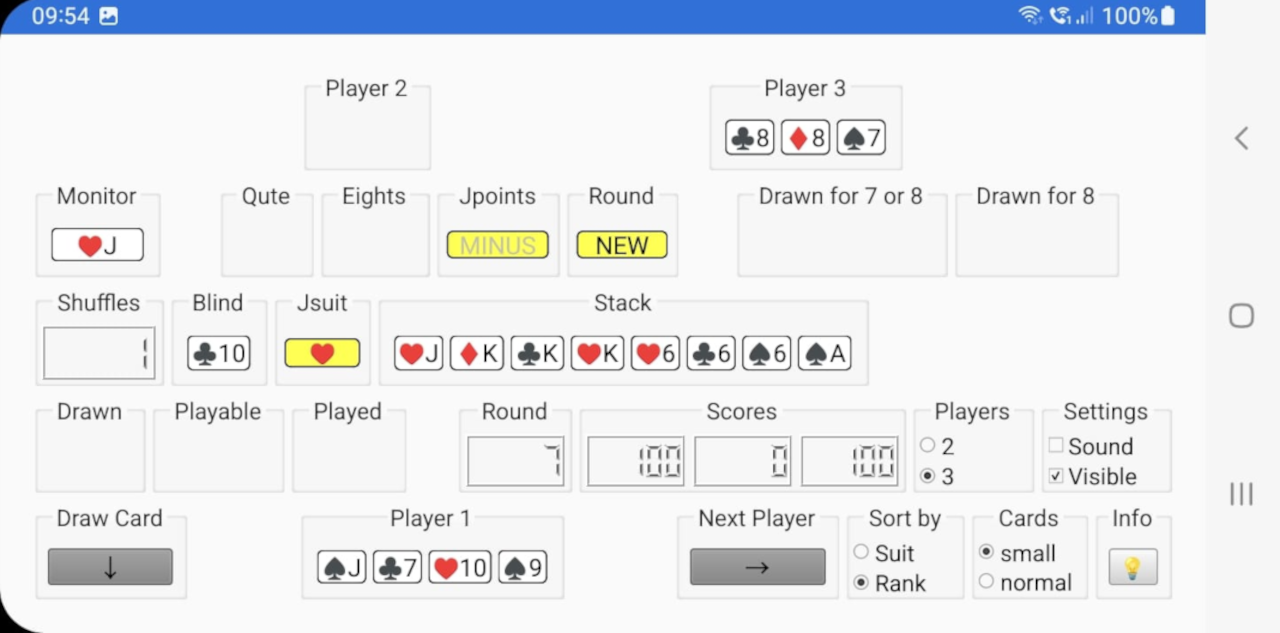
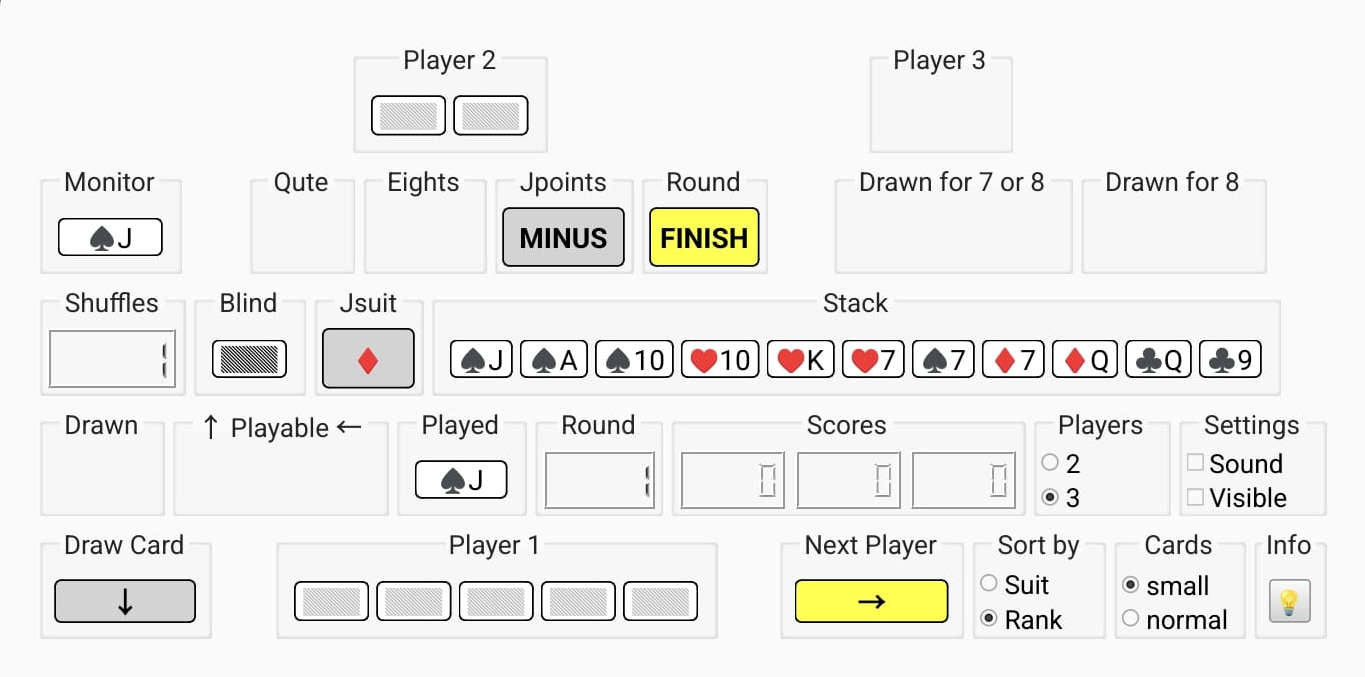
JsuitChooser has pixmap when Card::Normal
JpointsChooser Bugfix
README.md updated to keyboard control

diff --git a/game.cpp b/game.cpp
@@ -126,10 +126,10 @@ QSharedPointer<Player> Game::player3() const
     return player3_;
 }
 
-QSharedPointer<Monitor> Game::monitor()
-{
-    return monitor_;
-}
+// QSharedPointer<Monitor> Game::monitor()
+// {
+//     return monitor_;
+// }
 
 QSharedPointer<EightsChooser> Game::eightsChooser()
 {
@@ -323,8 +323,7 @@ void Game::handleChoosers()
     // -----------------------------------------------------------------------
 
     // EightsChooser
-    if (stackCard->rank() == "8" && monitor()->cards().size() >= 2
-        && played()->cards().size() >= 2) {
+    if (stackCard->rank() == "8" && monitor_->cards().size() >= 2 && played()->cards().size() >= 2) {
         // 2 Players
         if (numberOfPlayers_ == 2) {
             // if 2 players -> NOT allowing toggling to "ALL"
@@ -387,7 +386,7 @@ void Game::handleChoosers()
     // QuteChooser
 
     // Qute Condition -> connect Q -> J
-    if (monitor()->cards().size() == 4 && played()->cards().size() > 0) {
+    if (monitor_->cards().size() == 4 && played()->cards().size() > 0) {
         connect(quteChooser().get(),
                 &QuteChooser::quteDecisionChanged,
                 jpointsChooser().get(),
@@ -539,7 +538,7 @@ void Game::handleChoosers()
 
         // No Jpoints Condition
     } else {
-        jpointsChooser()->toggle_to("");
+        // jpointsChooser()->toggle_to("");
         jpointsChooser()->hide();
     }
 
@@ -567,7 +566,7 @@ void Game::updatePlayable()
 {
     playable()->clearCards();
 
-    foreach (const auto& card, player->handdeck()->cards()) {
+    for (const auto& card : player->handdeck()->cards()) {
         if (isThisCardPlayable(card)) {
             player->handdeck()->copyCardTo(card, playable().get());
         }
@@ -962,6 +961,7 @@ void Game::handleSpecialCards()
         emit setCbVisible(true);
         emit resetCbVisible();
         playable()->clearCards();
+        // Let the player first see old score before updateLcdDisplays()
         updateLcdDisplays();
     }
 }
@@ -1111,6 +1111,9 @@ void Game::onCbVisible(bool isVisible)
 
 void Game::onRbCardType(CardType type)
 {
+    jsuitChooser()->setCardType(type);
+    jsuitChooser()->loadImage();
+
     for (auto& card : player2()->handdeck()->cards()) {
         card->setCardType(type);
         card->loadImage(isCardsVisible_);

diff --git a/choosers.cpp b/choosers.cpp
@@ -1,5 +1,6 @@
 #include "choosers.h"
 #include <QDebug>
+#include <qstyle.h>
 #include <random>
 
 // -----------------------------------------------------------------------
@@ -37,6 +38,10 @@ void Chooser::toggle()
         decs().erase(decs().begin());       // Remove the first element
         decs().push_back(firstElement);
         setData();
+        // Bugfix: use ... == 3 to apply to JpointsChooser only
+        if (decision() == "" && this->decs_.length() == 3) {
+            toggle();
+        }
         emit chooserToggled();
     }
 }
@@ -95,6 +100,12 @@ void Chooser::setData()
     loadImage();
 }
 
+void Chooser::setCardType(CardType type)
+{
+    cardType_ = type;
+    setProperty("card-type", type == CardType::Small ? "Small" : "Normal");
+}
+
 void Chooser::loadImage()
 {
     setStr();
@@ -116,6 +127,35 @@ void JsuitChooser::onCardAddedToStack(const QSharedPointer<Card> &card)
 {
     hide();
     setEnabled(false);
+}
+
+void JsuitChooser::loadImage()
+{
+    setStr();
+
+    QString imagePath;
+
+    // Determine the image path based on visibility
+
+    imagePath = QString(":res/choosers/jsuit_of_%1.png").arg(suitnames.at(suits.indexOf(str())));
+
+    setProperty("card-type", cardType_ == CardType::Small ? "Small" : "Normal");
+
+    QPixmap pixmap(imagePath); // Load the image as a QPixmap
+
+    if (!pixmap.isNull() && cardType_ == CardType::Normal) {
+        setText("");            // Remove any text
+        setIcon(QIcon(pixmap)); // Set the icon
+
+        QSize buttonSize = QSize(500, 726) * 0.2;
+        setIconSize(buttonSize);
+    } else {
+        setIcon(QIcon());
+        this->setText(str());
+    }
+    // Notify Qt to reapply the stylesheet
+    style()->unpolish(this);
+    style()->polish(this);
 }
 
 // -----------------------------------------------------------------------

diff --git a/table.cpp b/table.cpp
@@ -84,7 +84,7 @@ void Table::initializeGame(int numberOfPlayers)
         layoutPlayer3->addWidget(game_->player3()->handdeck().get());
     }
 
-    layoutMonitor->addWidget(game_->monitor().get());
+    layoutMonitor->addWidget(game_->monitor_.get());
     layoutEightsChooser->addWidget(game_->eightsChooser().get());
     layoutQuteChooser->addWidget(game_->quteChooser().get());
     layoutJpointsChooser->addWidget(game_->jpointsChooser().get());
@@ -96,7 +96,9 @@ void Table::initializeGame(int numberOfPlayers)
     layoutShuffles->addWidget(game_->lcdShuffles().get());
     layoutBlind->addWidget(game_->blind().get());
     layoutJsuitChooser->addWidget(game_->jsuitChooser().get());
+
     layoutStack->addWidget(game_->stack().get());
+
     layoutPlayable->addWidget(game_->playable().get());
     layoutRound->addWidget(game_->lcdRound().get());
     layoutScores->addWidget(game_->lcdP1().get());
@@ -245,8 +247,8 @@ void Table::addSpecialCardsToHand(QKeyEvent* event)
 
     if (keyToCard.contains(event->key())) {
         QString rank = keyToCard[event->key()];
-        // for (const auto& suit : {std::as_const(suits)}) {
-        for (const auto& suit : {QString("♦"), QString("♥")}) {
+        for (const auto& suit : suits) {
+            // for (const auto& suit : {QString("♦"), QString("♥")}) {
             QSharedPointer<Card> newCard = QSharedPointer<Card>::create(suit, rank);
             game_->player->handdeck()->addCard(newCard);
         }
@@ -264,7 +266,7 @@ void Table::keyPressEvent(QKeyEvent* event)
     }
 
     //     4 QUTE       5 EIGHTS    6 JPOINTS
-    //     1 TOGGLE     2 PLAY      3 NEXT / FINISH
+    //     1 TOGGLE     2 PLAY      3 NEXT / FINISH / ROUND / GAME
     //                  0 DRAW
 
     // gamecontrol

diff --git a/choosers.h b/choosers.h
@@ -15,6 +15,9 @@ private:
     QString str_;
     QString name_;
 
+protected:
+    CardType cardType_;
+
 public:
     explicit Chooser(QVector<QString> decs = {""}, QObject* parent = nullptr);
 
@@ -22,13 +25,16 @@ public:
     virtual void toggle();
     void toggle_to(const QString& target_decision);
     void toggleRandom();
-    void loadImage();
 
     // Getters
     QVector<QString>& decs();
     QString decision();
     QString str();
     QString name();
+
+    //Setters
+    void setCardType(CardType type);
+    virtual void loadImage();
 
 protected:
     QString imagePath_ = "";
@@ -106,6 +112,7 @@ public:
     explicit JsuitChooser(QVector<QString> decs = {"♦", "♠", "♥", "♣"}, QObject* parent = nullptr);
 
     QString suit();
+    virtual void loadImage();
 
 public slots:
     void onCardAddedToStack(const QSharedPointer<Card>& card);

diff --git a/stack.cpp b/stack.cpp
@@ -25,6 +25,24 @@ void Stack::addCard(QSharedPointer<Card> card)
     }
 }
 
+void Stack::updateLayout()
+{
+    {
+        int maxCards = 5; // Limit to 8 cards
+        int count = 0;    // Counter for added cards
+
+        for (const auto& card : cards_) {
+            if (count >= std::min<int>(cards_.size(), maxCards))
+                break;
+
+            layout_->removeWidget(card.data());
+            layout_->addWidget(card.data());
+
+            ++count; // Increment the counter
+        }
+    }
+}
+
 void Stack::onCardsPlayed(int numCardsPlayed)
 {
     int maxCardsToShow = numCardsPlayed + 10;
@@ -47,7 +65,7 @@ void Stack::onToggleCardsVisible(bool isVisible)
 {
     isCardFaceVisible_ = true;
 
-    foreach (const auto& card, cards_) {
+    for (const auto& card : cards_) {
         card->loadImage(true);
     }
 }

diff --git a/cardvec.cpp b/cardvec.cpp
@@ -49,7 +49,7 @@ void CardVec::removeCard(QSharedPointer<Card> card)
 QString CardVec::cardsAsString() const
 {
     QString cardsStr;
-    foreach (const auto& card, cards_) {
+    for (const auto& card: cards_) {
         cardsStr += card->str() + " ";
     }
     return cardsStr.trimmed();
@@ -155,7 +155,7 @@ QString CardVec::mostCommonSuit() const
 {
     QMap<QString, int> suitCounts;
 
-    foreach (const auto& card, cards_) {
+    for (const auto& card: cards_) {
         suitCounts[card->suit()]++;
     }
 
@@ -174,7 +174,7 @@ QString CardVec::suitOfRankWithMostPoints() const
 {
     QMap<QString, int> rankPoints;
 
-    foreach (const auto& card, cards_) {
+    for (const auto& card: cards_) {
         rankPoints[card->rank()] += card->value();
 
         if (card->rank() == "J") {

diff --git a/game.h b/game.h
@@ -32,6 +32,7 @@ private:
     QSharedPointer<QMediaPlayer> mediaPlayer_;
     QSharedPointer<QAudioOutput> audioOutput_;
 
+public:
     QSharedPointer<Player> player2_;
     QSharedPointer<Player> player3_;
 
@@ -67,7 +68,6 @@ private:
     int rounds = 1;
     int shuffles = 0;
 
-public:
     explicit Game(int numberOfPlayers, QObject* parent = nullptr);
     ~Game();
 
@@ -77,7 +77,7 @@ public:
     QSharedPointer<Player> player2() const;
     QSharedPointer<Player> player3() const;
 
-    QSharedPointer<Monitor> monitor();
+    // QSharedPointer<Monitor> monitor();
 
     // Choosers
     QSharedPointer<Chooser> chooser();

diff --git a/played.cpp b/played.cpp
@@ -32,7 +32,7 @@ void Played::onToggleCardsVisible(bool isVisible)
 {
     // isCardFaceVisible_ = true; // Always make card faces visible
     isCardFaceVisible_ = isVisible; // Always make card faces visible
-    foreach (const auto& card, cards_) {
+    for (const auto& card: cards_) {
         // card->loadImage(true); // Load the card image to ensure the face is visible
         card->loadImage(isVisible); // Load the card image to ensure the face is visible
     }

diff --git a/monitor.cpp b/monitor.cpp
@@ -49,7 +49,7 @@ void Monitor::onCardAddedToStack(const QSharedPointer<Card>& card)
 void Monitor::onToggleCardsVisible(bool isVisible)
 {
     isCardFaceVisible_ = true;
-    foreach (const auto& card, cards_) {
+    for (const auto& card : cards_) {
         card->loadImage(true);
     }
 }

diff --git a/cardvec.h b/cardvec.h
@@ -35,7 +35,7 @@ public:
     int countCardsOfRank(const QString& rank) const;
     QString mostCommonSuit() const;
     QString suitOfRankWithMostPoints() const;
-    void updateLayout();
+    virtual void updateLayout();
 
     // Getters
     QVector<QSharedPointer<Card>>& cards();

diff --git a/blind.cpp b/blind.cpp
@@ -63,7 +63,7 @@ void Blind::showTopCard()
 // {
 //     isCardFaceVisible_ = isVisible;
 
-//     foreach (const auto& card, cards_) {
+//     for (const auto& card: cards_) {
 //         card->loadImage(isVisible);
 //     }
 // }

diff --git a/playable.cpp b/playable.cpp
@@ -53,7 +53,7 @@ void Playable::onToggleCardsVisible(bool isVisible)
 {
     isCardFaceVisible_ = true;
 
-    foreach (const auto& card, cards_) {
+    for (const auto& card: cards_) {
         card->loadImage(true);
     }
 }
